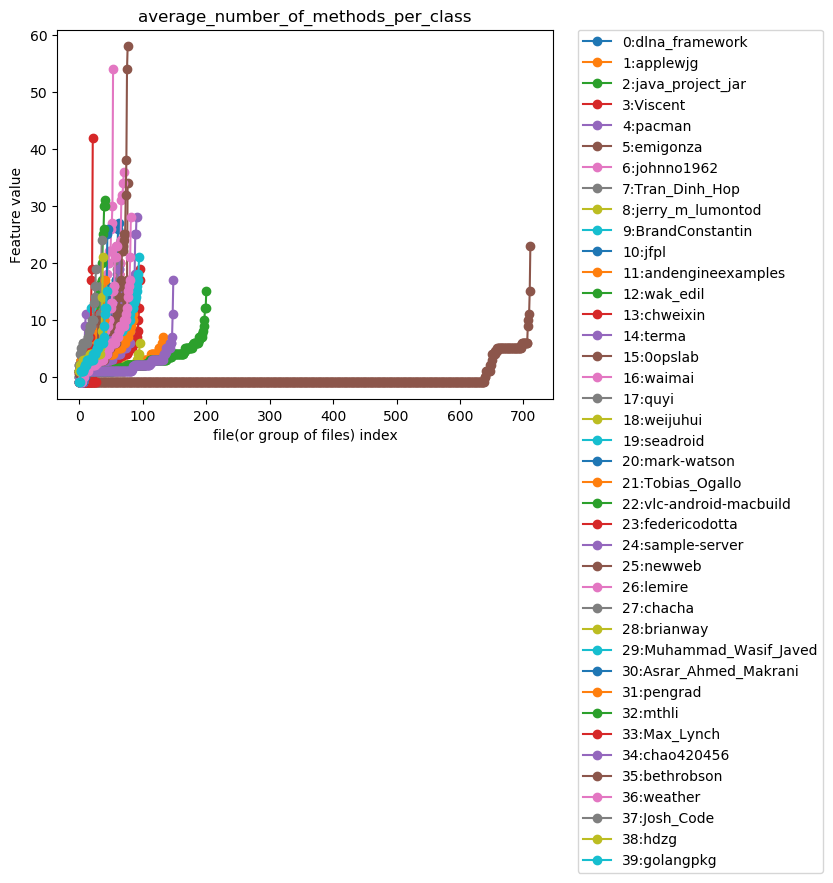
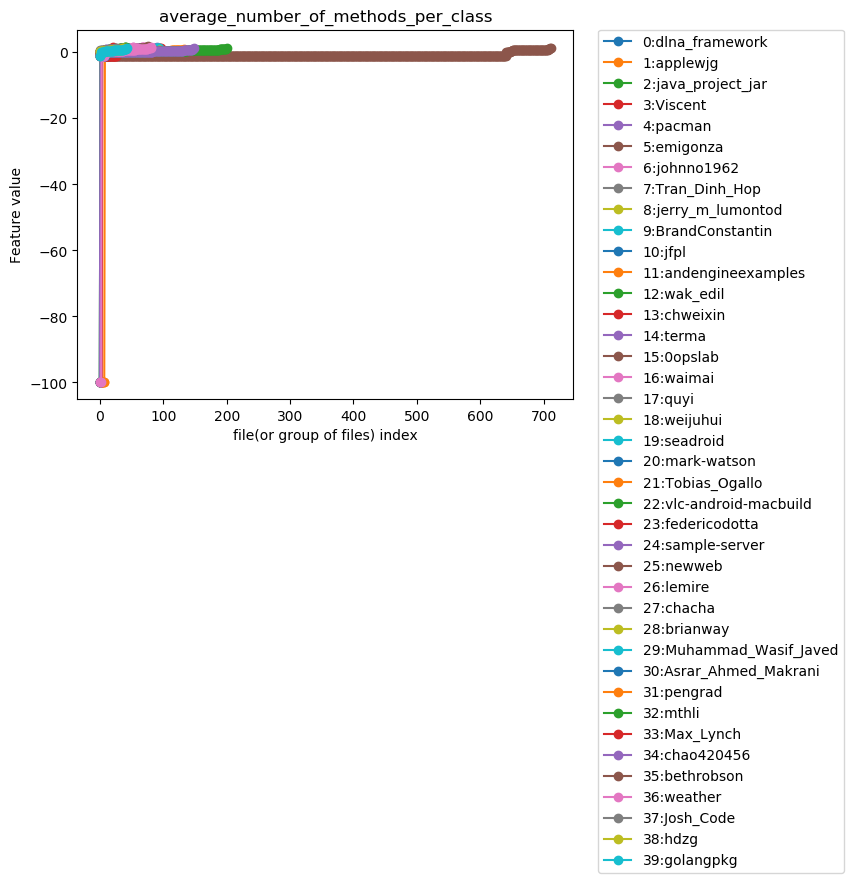
Added log10 to all nonnegative, -100 is log10(0). Results are worse: 40% acc. Looks like -1 default value for zero division is bad, because log10(0.1) = -1. Probably better to make log10(0) = -50, a / 0 = -100.

Changed region(s): [[0.0, 0.0, 0.9988, 1.0], [0.6242, 0.4587, 0.6555, 0.4892]]

diff --git a/psob_authorship/features/utils.py b/psob_authorship/features/utils.py
@@ -1,4 +1,5 @@
 import logging
+import math
 import os
 
 from typing import Tuple
@@ -51,9 +52,15 @@ def divide_ratio_with_handling_zero_division(numerator, denominator, logger: log
 
 
 def divide_nonnegative_with_handling_zero_division(numerator, denominator, logger: logging.Logger,
-                                                   log_information, zero_division_return=float(-1)):
-    return divide_with_handling_zero_division(numerator, denominator, logger,
-                                              log_information, (0, float("inf")), zero_division_return)
+                                                   log_information, take_log10=True, log_from_zero=-100.0,
+                                                   zero_division_return=float(-1)):
+    result = divide_with_handling_zero_division(numerator, denominator, logger,
+                                                log_information, (0, float("inf")), zero_division_return)
+    if result == zero_division_return:
+        return zero_division_return
+    if result == 0 and take_log10:
+        return log_from_zero
+    return math.log10(result) if take_log10 else result
 
 
 def divide_with_handling_zero_division(numerator, denominator, logger: logging.Logger, log_information,

diff --git a/psob_authorship/features/java/MetricsCalculator.py b/psob_authorship/features/java/MetricsCalculator.py
@@ -21,14 +21,14 @@ class MetricsCalculator:
         self.LOGGER.info("Started calculating metrics")
         super().__init__()
         self.line_metrics_calculator = LineMetricsCalculator(dataset_path)
-        self.braces_metrics_calculator = CharacterMetricsCalculator(dataset_path)
+        self.character_metrics_calculator = CharacterMetricsCalculator(dataset_path)
         self.ast_metrics_calculator = \
-            AstMetricsCalculator(ast_path, self.braces_metrics_calculator.character_number_for_file)
+            AstMetricsCalculator(ast_path, self.character_metrics_calculator.character_number_for_file)
         self.LOGGER.info("End calculating metrics")
 
     def get_metrics(self, filepaths: Set[str]) -> torch.Tensor:
         return torch.cat((
             self.line_metrics_calculator.get_metrics(filepaths),
-            self.braces_metrics_calculator.get_metrics(filepaths),
+            self.character_metrics_calculator.get_metrics(filepaths),
             self.ast_metrics_calculator.get_metrics(filepaths)
         ))

diff --git a/psob_authorship/experiment/one_split_fit.py b/psob_authorship/experiment/one_split_fit.py
@@ -13,8 +13,7 @@ from psob_authorship.model.Model import Model
 
 CONFIG = {
     'experiment_name': os.path.basename(__file__).split('.')[0],
-    'experiment_notes': "change: added 5th feature, now all features used, but no log is applied to them, so results "
-                        "must be worse",
+    'experiment_notes': "change: added log10 to all metrics that are out of [0; 1], -100 is log10(0)",
     'number_of_authors': 40,
     'labels_features_common_name': "../calculated_features/extracted_for_each_file",
     'metrics': [i for i in range(19)],

diff --git a/psob_authorship/features/java/ast_metrics/AstMetricsCalculator.py b/psob_authorship/features/java/ast_metrics/AstMetricsCalculator.py
@@ -1,4 +1,5 @@
 import logging
+import math
 from typing import Set, Dict
 
 import torch
@@ -28,7 +29,7 @@ class AstMetricsCalculator:
         :return: files ast max depth.
         """
         return torch.tensor([
-            float(max([self.asts[filepath].depth for filepath in filepaths]))
+            math.log10(float(max([self.asts[filepath].depth for filepath in filepaths])))
         ])
 
     def get_metrics(self, filepaths: Set[str]) -> torch.Tensor:
